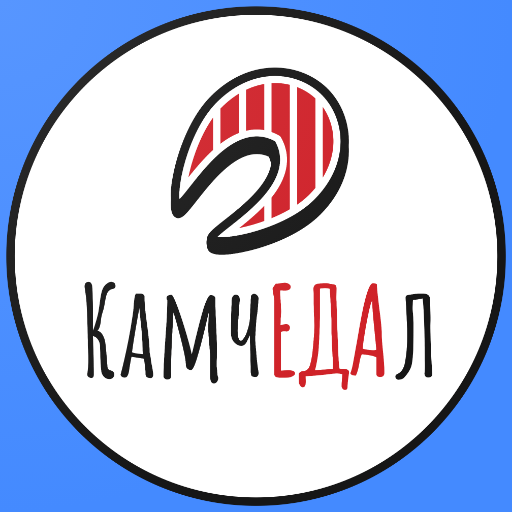
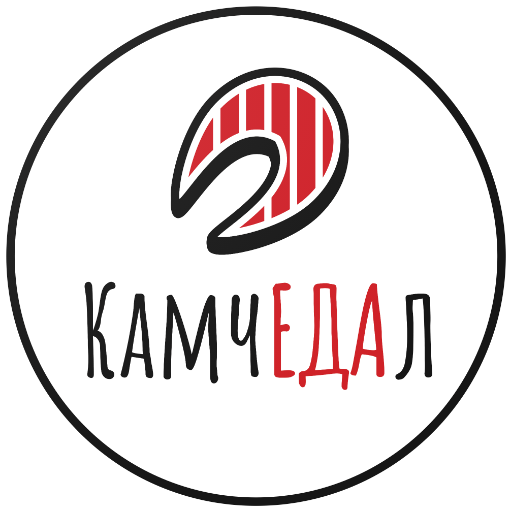
реализация прокси для телеграм

Changed region(s): [[0.0, 0.0, 1.0, 1.0]]

diff --git a/lib/page1.dart b/lib/page1.dart
@@ -5,8 +5,8 @@ import 'package:kamchedal/page2.dart';
 import 'package:http/http.dart' as http;
 import 'dart:convert';
 import 'package:flutter_open_whatsapp/flutter_open_whatsapp.dart';
-
 import 'package:kamchedal/user.dart';
+
 
 double _rating = 0;
 const url = 'https://uinames.com/api/'; //url запроса
@@ -31,7 +31,7 @@ class _Page1State extends State<Page1> {
           return SingleChildScrollView(
             child: Column(
               crossAxisAlignment: CrossAxisAlignment.center,
-              mainAxisAlignment: MainAxisAlignment.spaceAround,
+              mainAxisAlignment: MainAxisAlignment.center,
               mainAxisSize: MainAxisSize.min,
               children: <Widget>[
 //Лого
@@ -39,7 +39,7 @@ class _Page1State extends State<Page1> {
                   height: 180,
                   width: 180,
                   shape: BoxShape.circle,
-                  image: AssetImage('assets/kamlogo.png'),
+                  image: AssetImage('assets/icon.png'),
                 ),
 
 //Текст
@@ -197,8 +197,11 @@ class _Page1State extends State<Page1> {
         }));
   }
 
+
   void send() async {
-    var result = await http.get('https://api.telegram.org/bot1090331552:AAF8p99EDmemwTu16YJLgT89VQ5tXbCg8W4/sendMessage?chat_id=806652480&text=Имя: $name \nТелефон: $phone \nРейтинг: $_rating \nОтзыв: $review');
+
+    var result = await http.get('http://194.40.243.109//bot1090331552:AAF8p99EDmemwTu16YJLgT89VQ5tXbCg8W4/sendMessage?chat_id=806652480&text=Имя: $name \nТелефон: $phone \nРейтинг: $_rating \nОтзыв: $review');
+
    print(result.body);
    // var js = json.decode(result.body);
     //var user = User(js["name"]);  

diff --git a/lib/page2.dart b/lib/page2.dart
@@ -16,7 +16,7 @@ class Page2 extends StatelessWidget {
                 height: 180,
                 width: 180,
                 shape: BoxShape.circle,
-                image: AssetImage('assets/kamlogo.png'),
+                image: AssetImage('assets/icon.png'),
               ),
               Container(
                 padding: EdgeInsets.all(20.0),

diff --git a/lib/main.dart b/lib/main.dart
@@ -1,6 +1,4 @@
 import 'package:flutter/material.dart';
-import 'package:getflutter/getflutter.dart';
-import 'package:kamchedal/page2.dart';
 import 'package:kamchedal/kamchedal.dart';
 
 void main() => runApp(Kamchedal());
